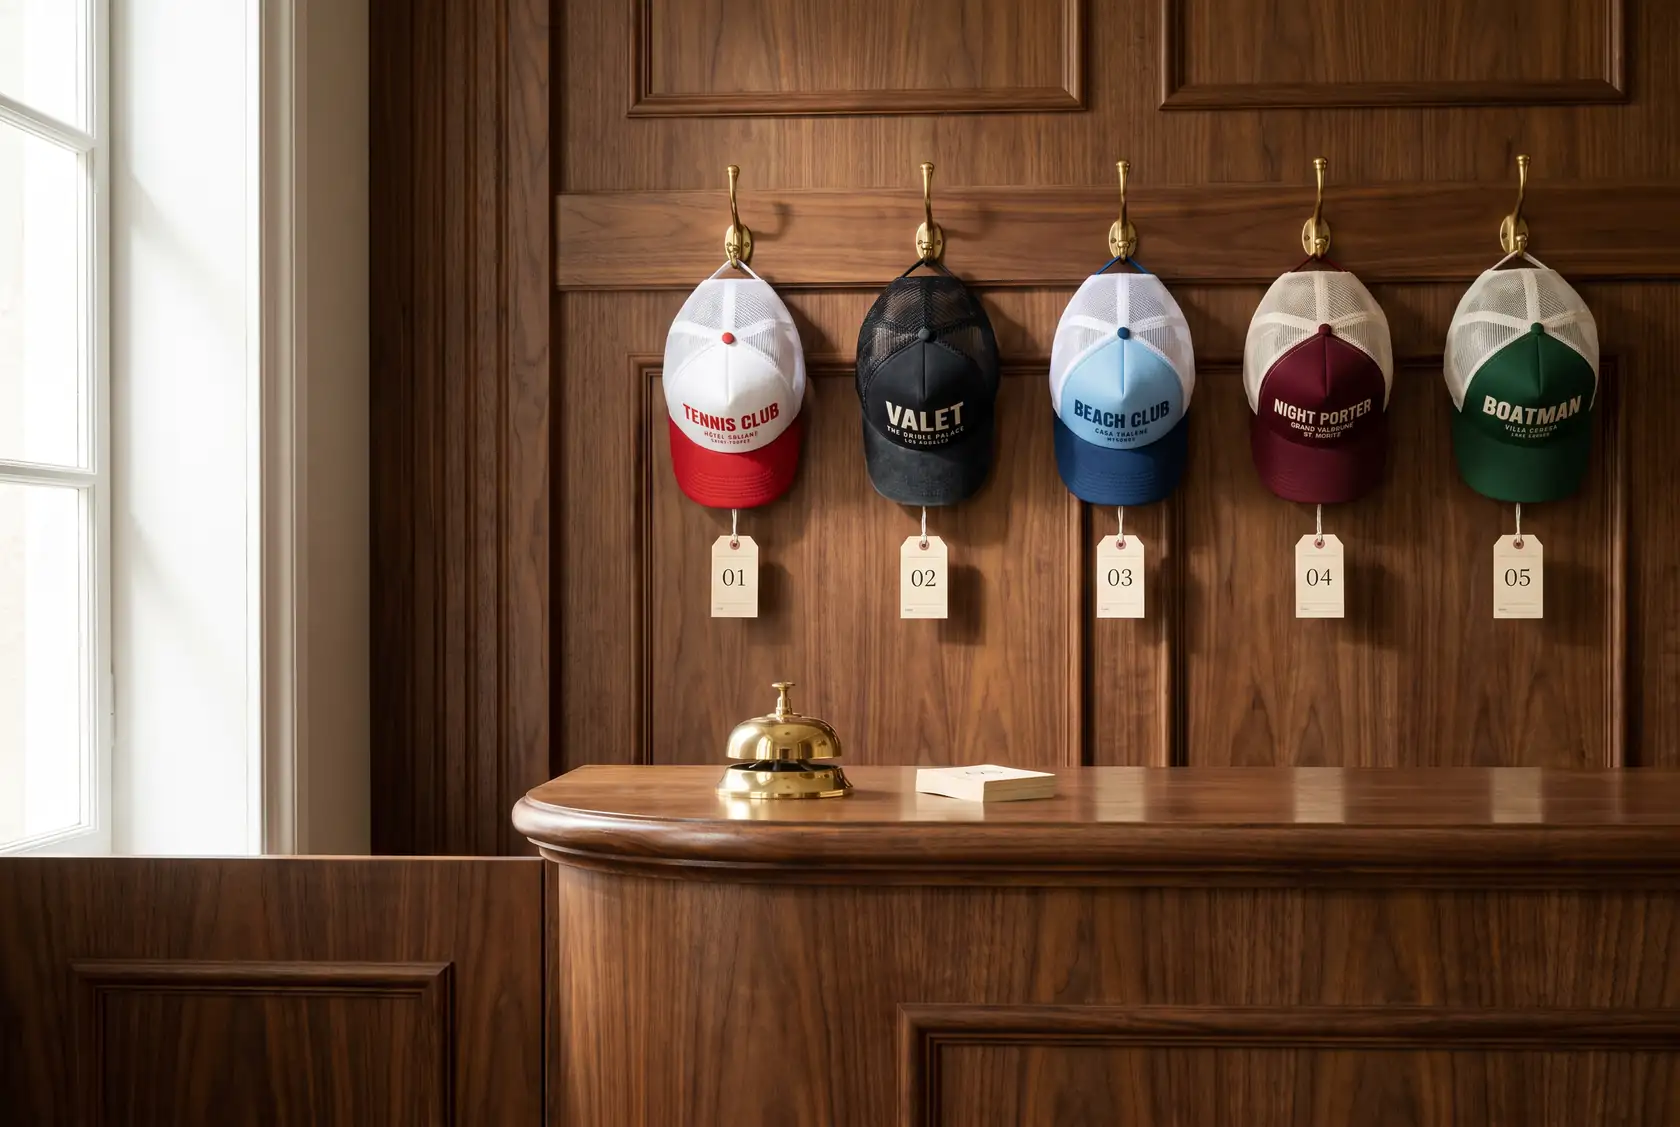
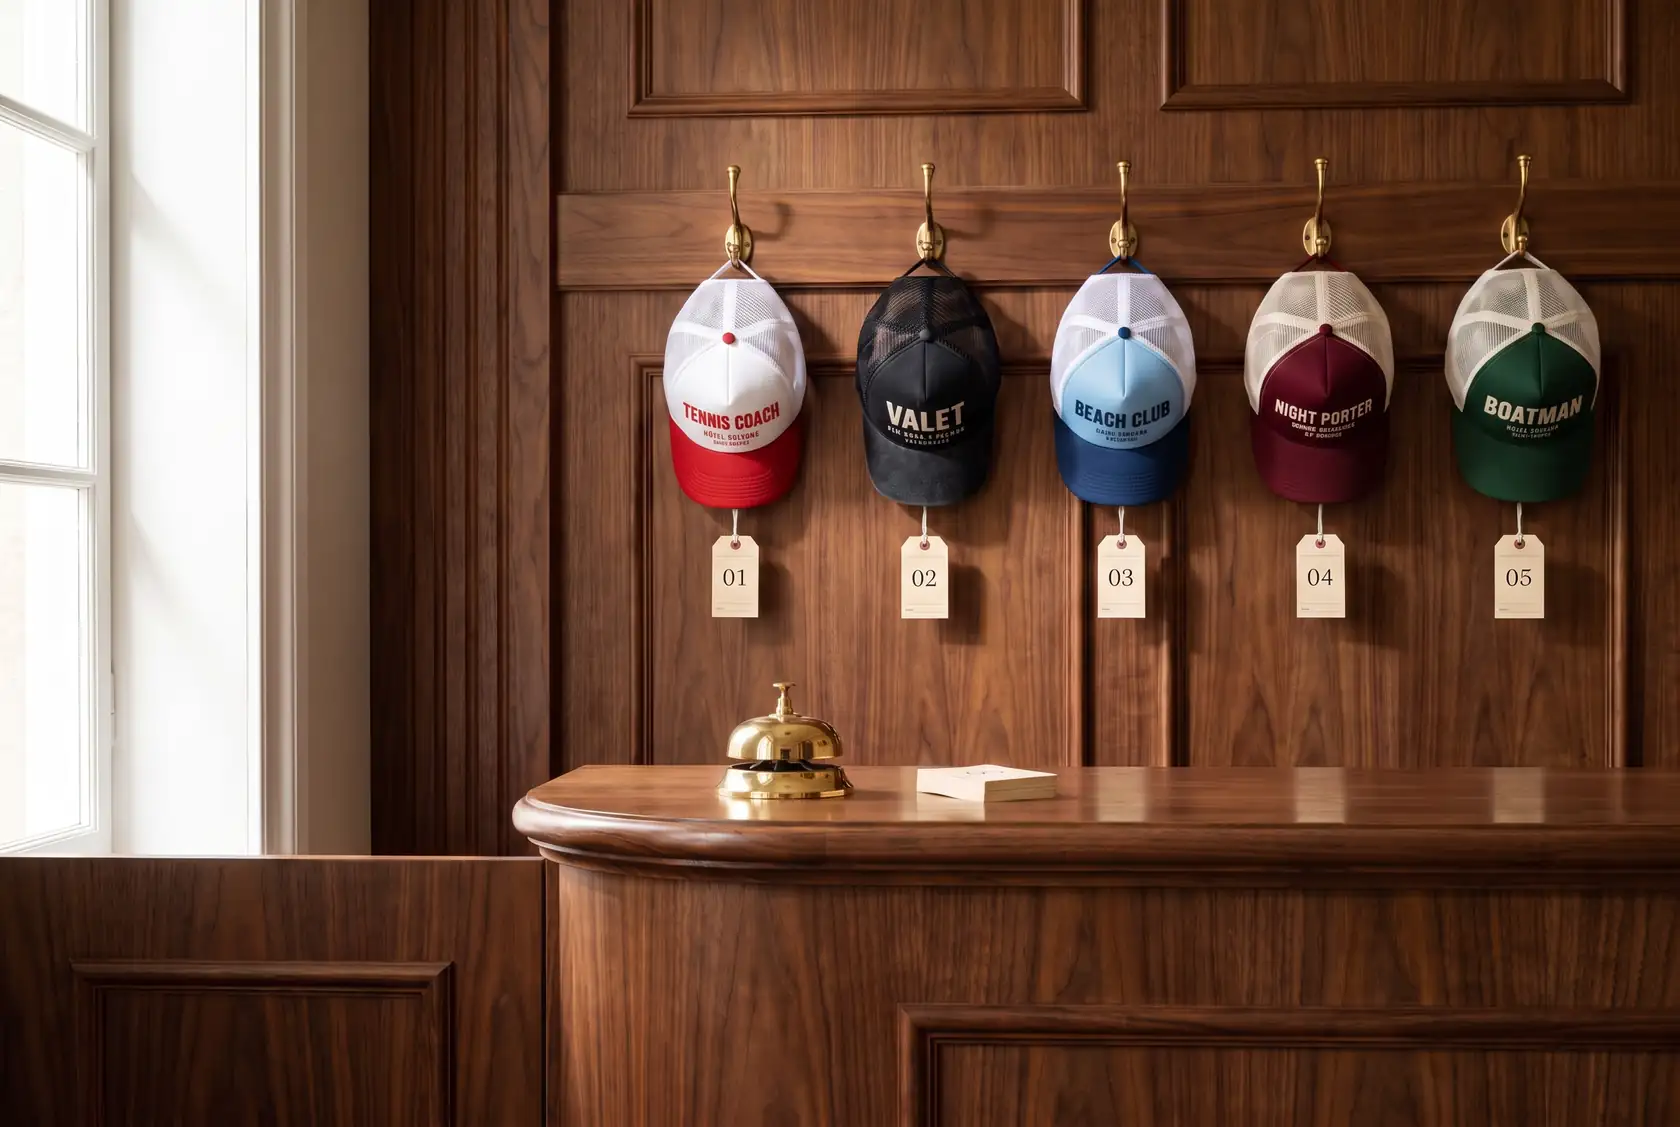
Hat Check: Tennis Club becomes Tennis Coach (Alex's call)
Claude-Session: https://claude.ai/code/session_01VKpSUGtU2j83FFr4XgcnwY

diff --git a/brands/off-duty-hotel-club/merch.md b/brands/off-duty-hotel-club/merch.md
@@ -45,7 +45,7 @@ A trucker-cap line, one per hotel, each the department the T-shirt store lists a
 
 | Cap | Hotel | Front / mesh / peak | Ink |
 | --- | --- | --- | --- |
-| Tennis Club | Hôtel Solvane, Saint-Tropez | white / white / clay red | red |
+| Tennis Coach | Hôtel Solvane, Saint-Tropez | white / white / clay red | red |
 | Valet | The Oriole Palace, Los Angeles | washed black throughout | off-white `#f5f2ea` |
 | Beach Club | Casa Thalene, Mykonos | pool blue / white / navy | navy |
 | Night Porter | Grand Valbrune, St. Moritz | burgundy / cream / burgundy | cream `#f1e6d2` |
